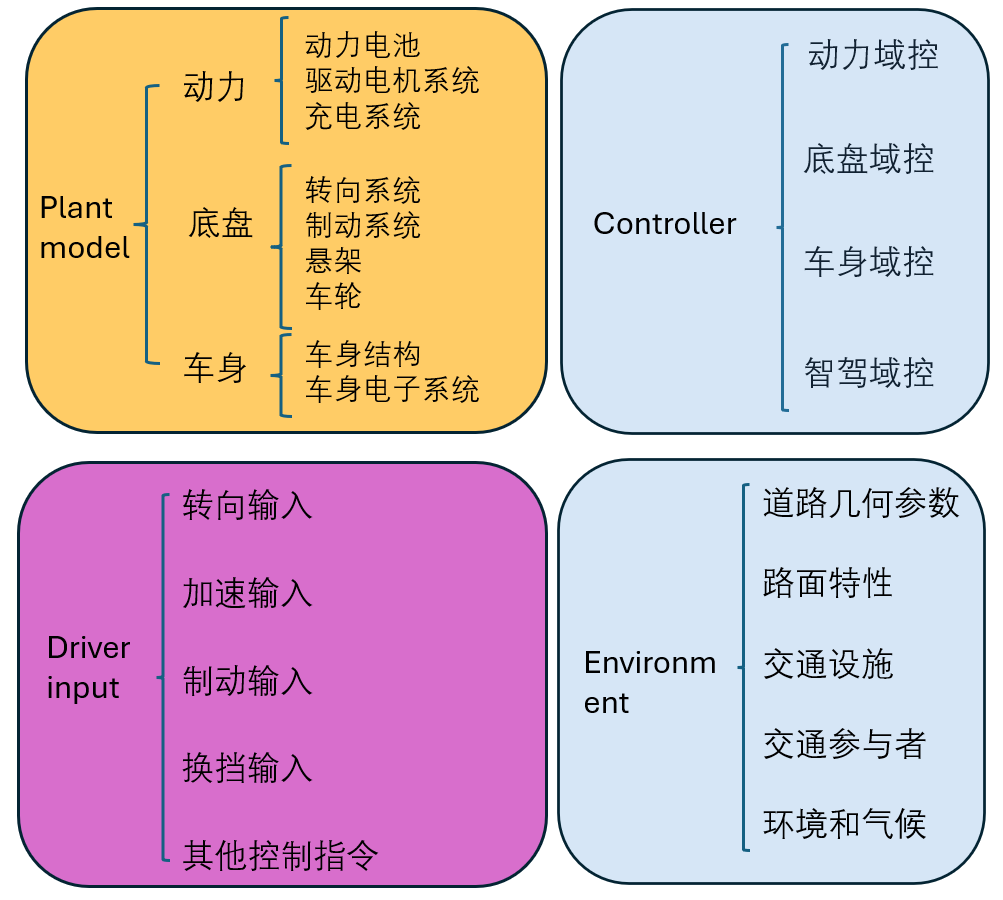
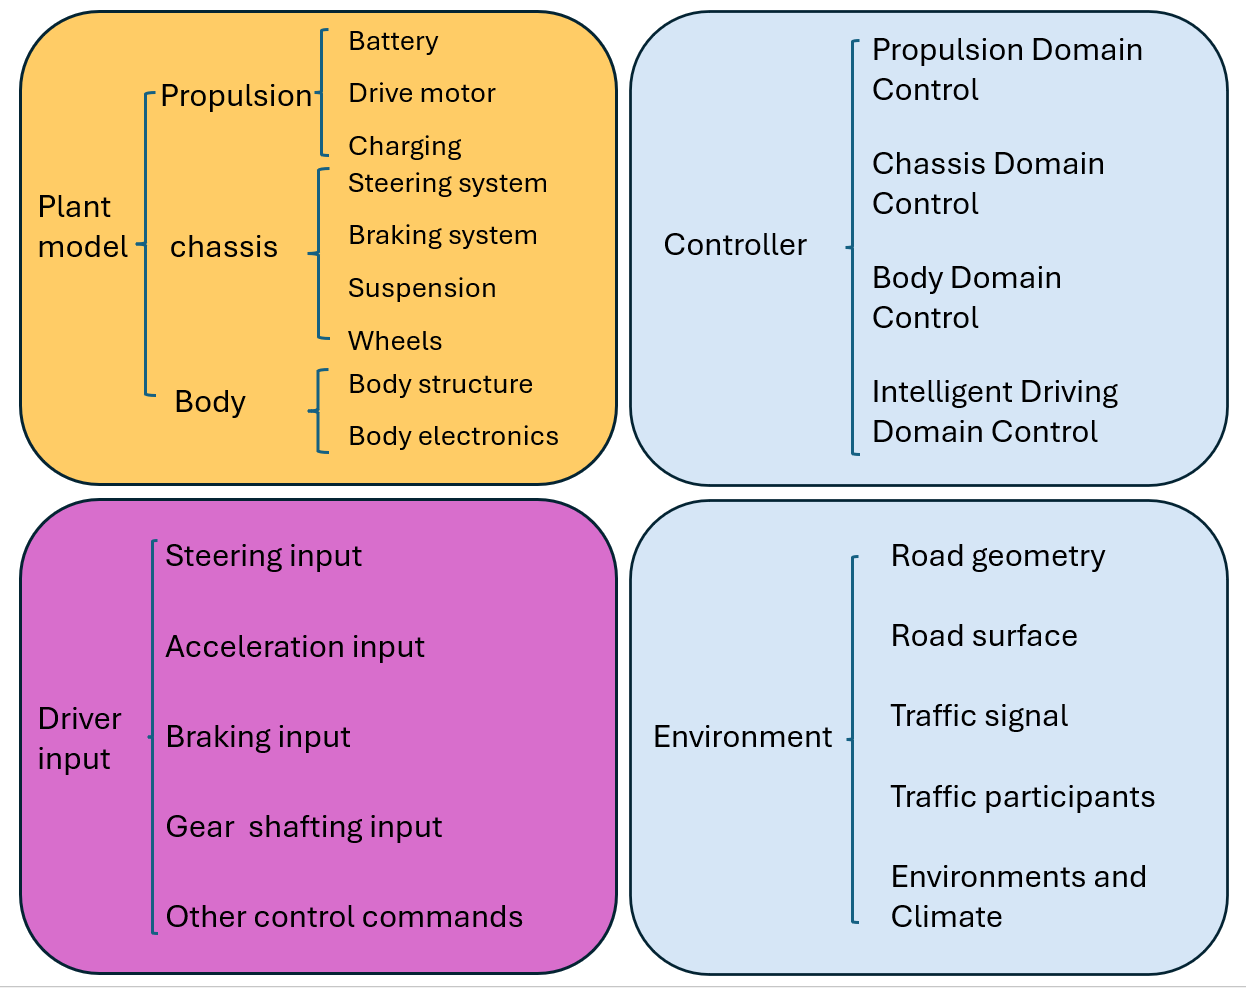
modify vehicle component into picture

Changed region(s): [[0.0, 0.0, 1.0, 1.0], [0.7109, 0.6222, 0.8963, 0.6844], [0.9581, 0.4044, 0.989, 0.4667]]

diff --git a/README.md b/README.md
@@ -3,6 +3,16 @@ Vehicle Control Simulation model, designed for control algorithm development and
 
 It's based on matlab/simulink, and compiled to use with user HMI.
 
+![VehicleModelMainConcept.png]
+!
+
+
+The Vehicle Control Model (VCM)platform focuses on vehicle dynamics simulation and autonomous drive technology. 
+It use a pure electric power system and combines it with the by-wire chassis technology. 
+It should adapt to  the mots popular ASAM standard protocol.
+Finally, the functional verification of the control system based on this platform is achieved, 
+such as by-wire steering, by-wire braking, AD driving simulation, etc.
+
 
 ##The project development phase planning
 This project is from the very beginning,we plan to develop the vehicle control model from zero and step by step.
